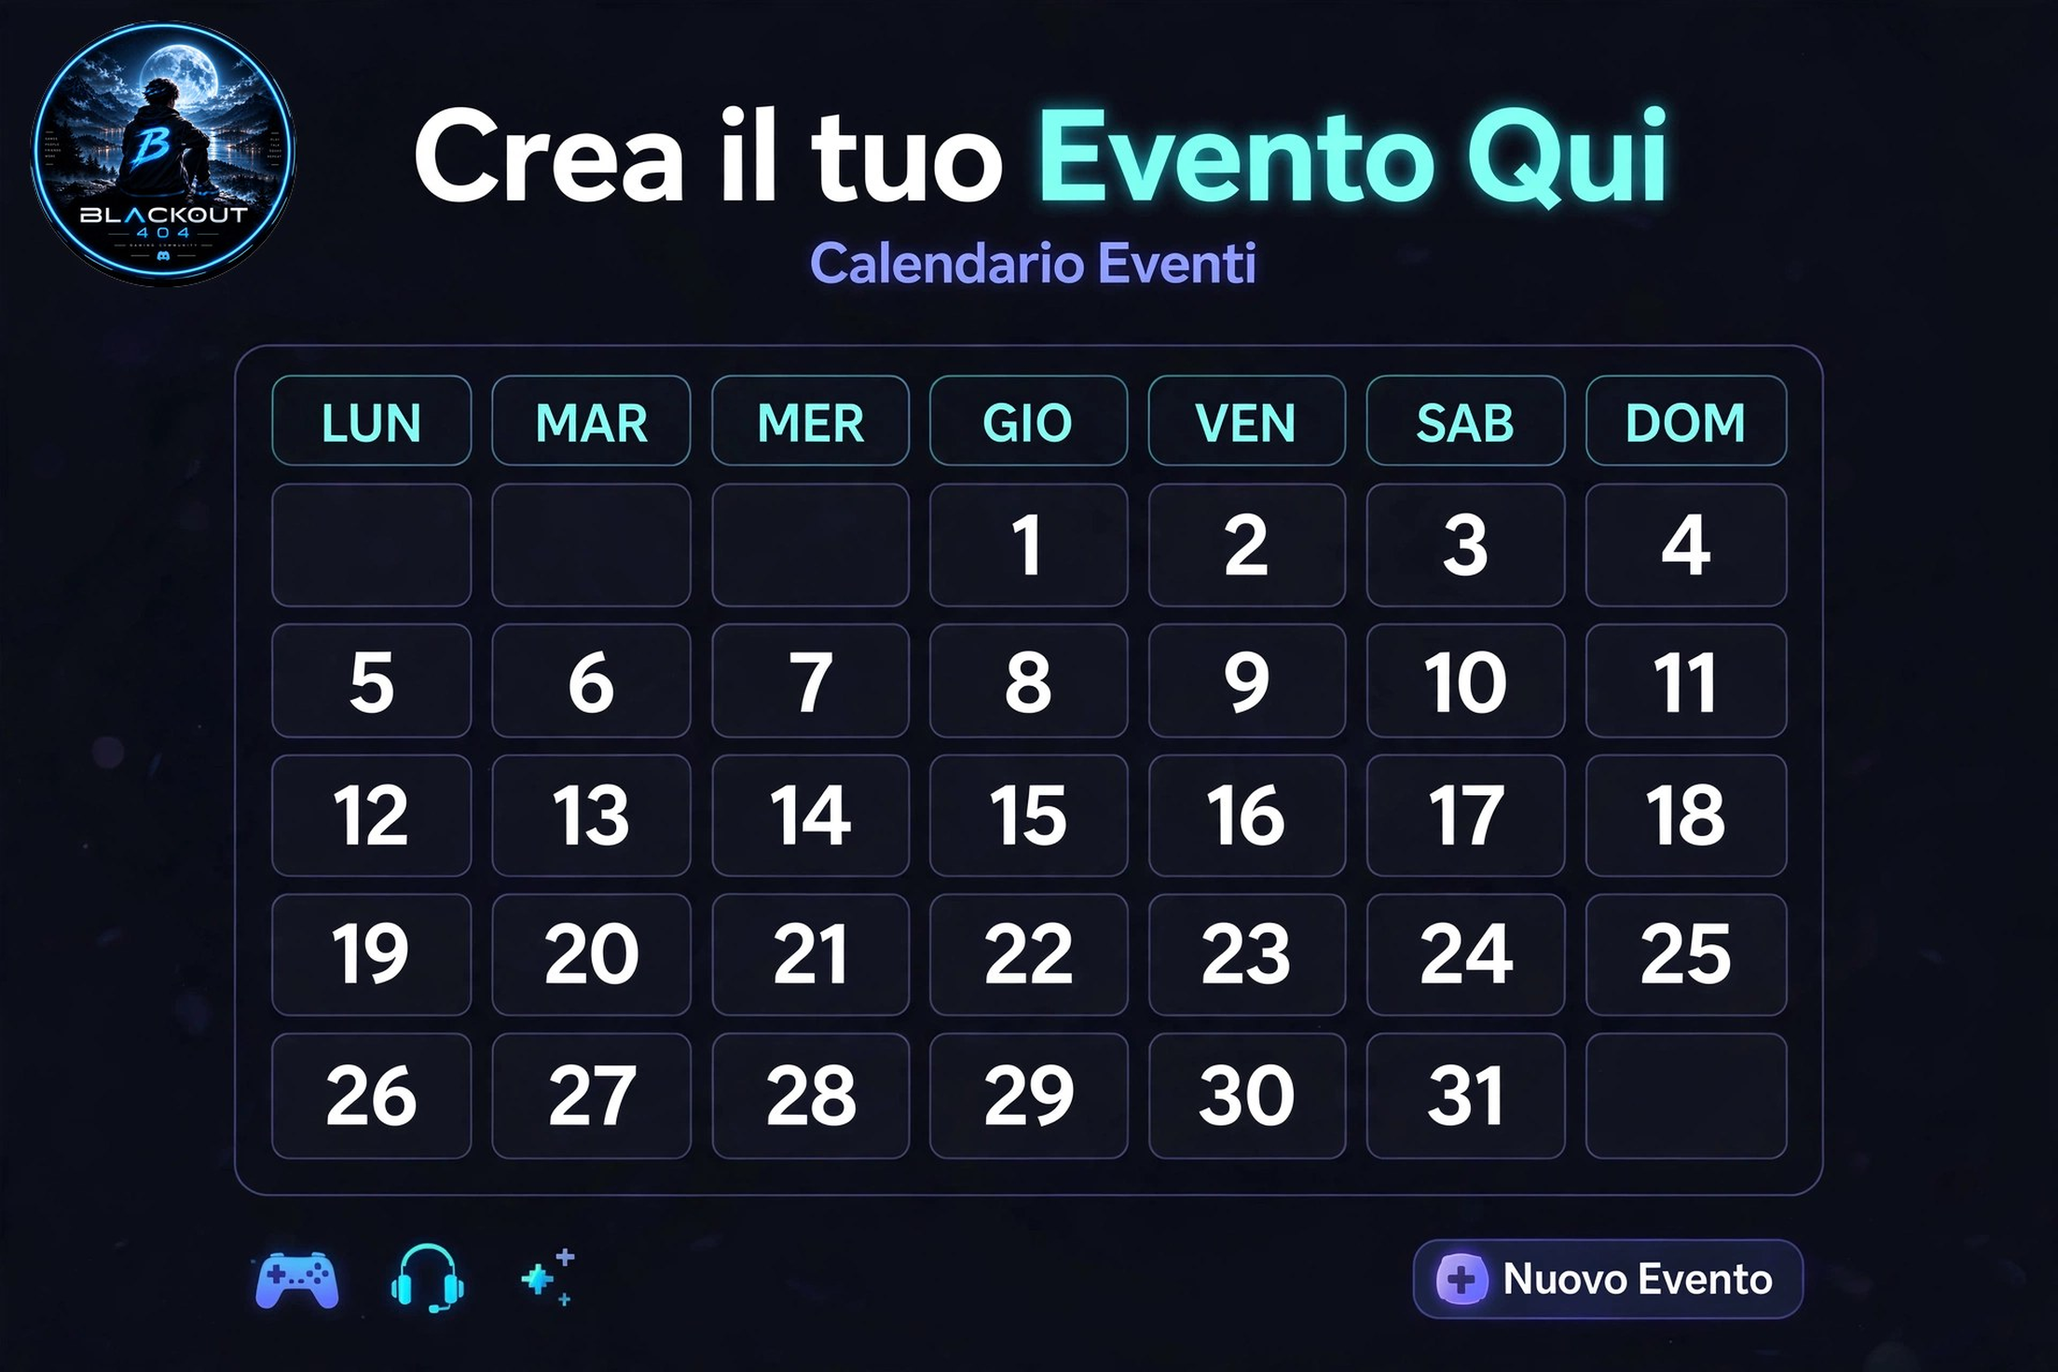
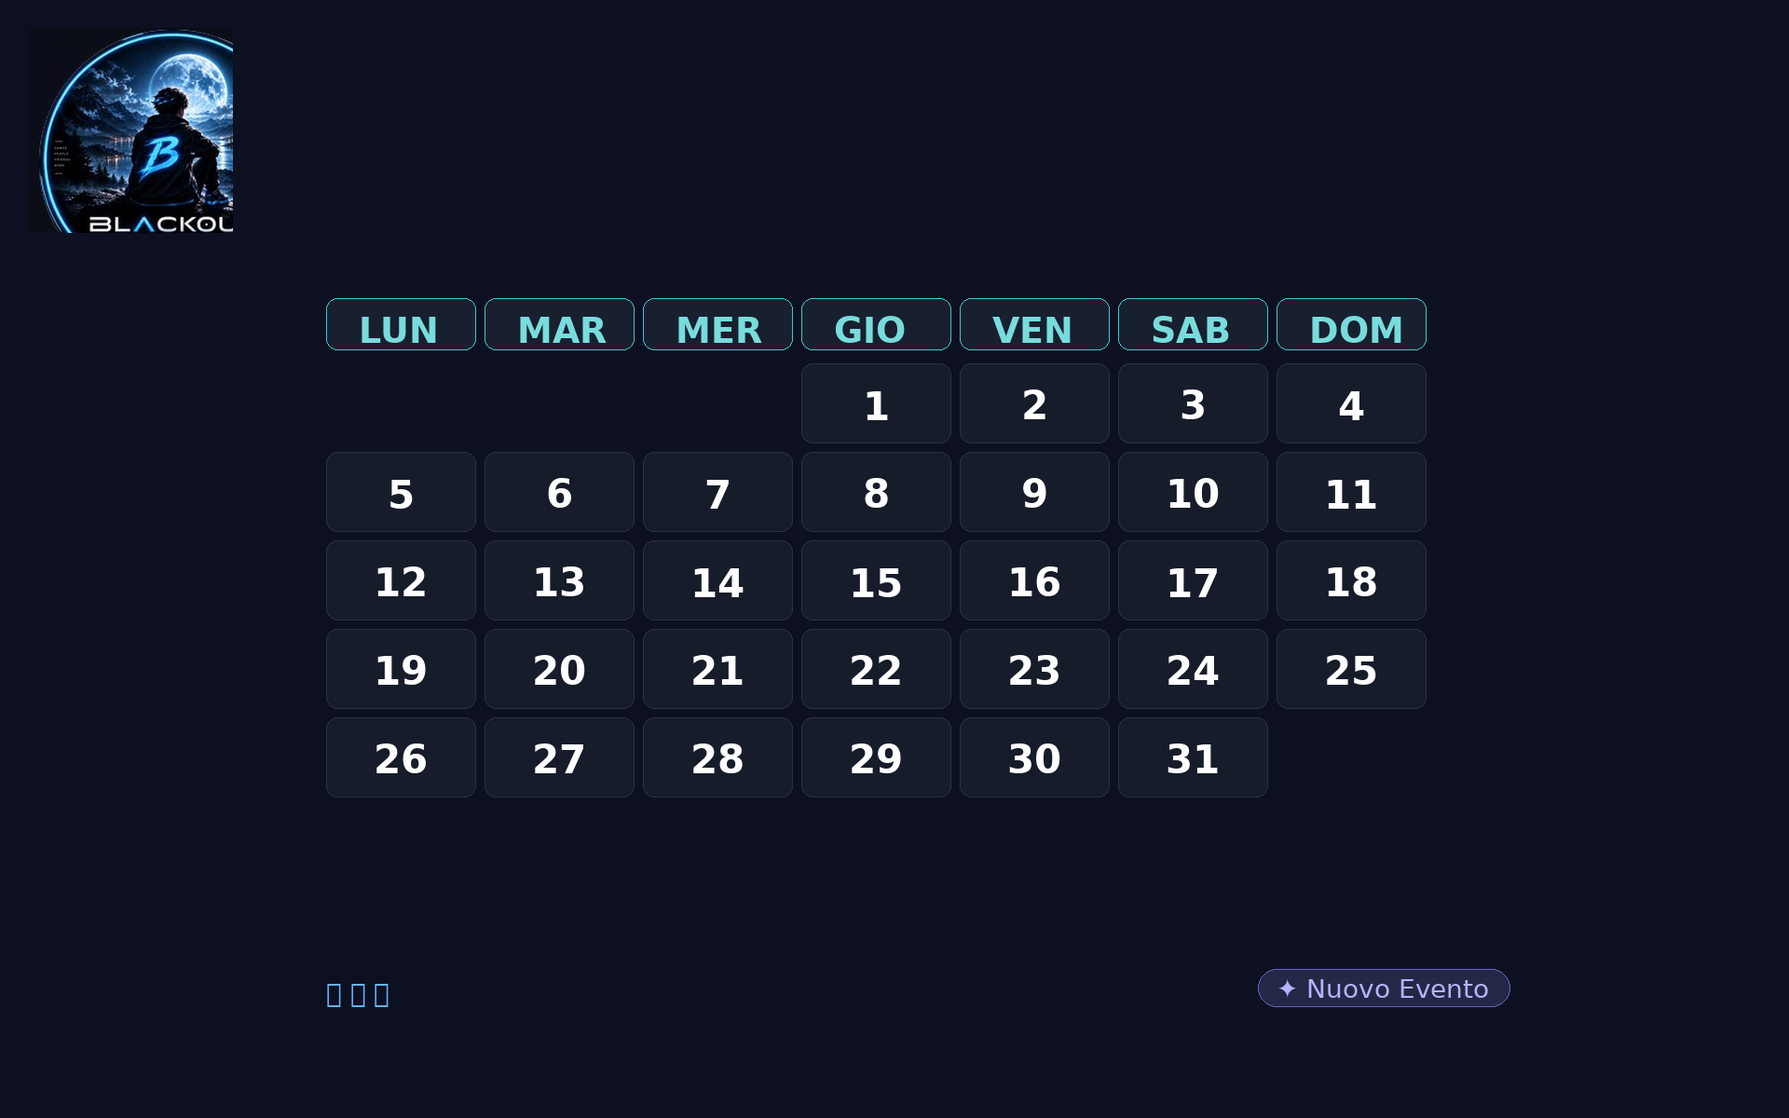
Add files via upload

diff --git a/bot.py b/bot.py
@@ -1,60 +1,347 @@
-import discord, os, threading
+import os, threading, datetime, calendar, re
+from zoneinfo import ZoneInfo
 from flask import Flask
-from googletrans import Translator
+import discord
+from discord.ext import commands
 
-TOKEN = os.getenv("DISCORD_TOKEN")
-translator = Translator()
-
-app = Flask('')
-@app.route('/')
-def home():
-    return "BLACKOUT Translator Online"
-
-threading.Thread(target=lambda: app.run(host='0.0.0.0', port=8080), daemon=True).start()
+app = Flask(__name__)
+@app.route("/")
+def home(): return "OK"
+def run_web():
+    port = int(os.environ.get("PORT", 10000))
+    app.run(host="0.0.0.0", port=port)
+threading.Thread(target=run_web, daemon=True).start()
 
 intents = discord.Intents.default()
 intents.message_content = True
-bot = discord.Client(intents=intents)
+bot = commands.Bot(command_prefix="!", intents=intents)
+
+ITALIA = ZoneInfo("Europe/Rome")
+COVER_IMAGE_PATH = "cover_C_corretta_finale.png"
+COVER_FILE_NAME = "cover_C_corretta_finale.png"
+CANALE_FISSO_ID = 1557509286911807629
+
+def get_cover_file():
+    if os.path.exists(COVER_IMAGE_PATH):
+        return discord.File(COVER_IMAGE_PATH, filename=COVER_FILE_NAME)
+    return None
+
+def get_ora_italia():
+    return datetime.datetime.now(ITALIA)
+
+class EventoPartecipaView(discord.ui.View):
+    def __init__(self, max_partecipanti: int, titolo_evento: str, data_str: str, creatore: str):
+        super().__init__(timeout=None)
+        self.max_p = max_partecipanti
+        self.titolo_evento = titolo_evento
+        self.data_str = data_str
+        self.creatore = creatore
+        self.partecipanti = []
+
+    @discord.ui.button(label="Partecipa", style=discord.ButtonStyle.green, emoji="✅", custom_id="partecipa_btn")
+    async def partecipa(self, interaction: discord.Interaction, button: discord.ui.Button):
+        user_id = interaction.user.id
+        if any(p["id"] == user_id for p in self.partecipanti):
+            await interaction.response.send_message("Hai gia cliccato Partecipa!", ephemeral=True)
+            return
+        if len(self.partecipanti) >= self.max_p:
+            await interaction.response.send_message(f"Evento pieno! Massimo {self.max_p} persone.", ephemeral=True)
+            return
+        self.partecipanti.append({"id": user_id, "name": interaction.user.display_name})
+        embed = discord.Embed(title=f"Evento del {self.data_str}", color=0x00ff88)
+        embed.add_field(name="Titolo", value=self.titolo_evento, inline=False)
+        lista_nomi = "\n".join([f"• {p['name']}" for p in self.partecipanti])
+        valore = f"{len(self.partecipanti)}/{self.max_p} persone\n{lista_nomi}" if self.partecipanti else f"0/{self.max_p} persone"
+        embed.add_field(name="Partecipanti", value=valore, inline=False)
+        embed.set_footer(text=f"Creato da {self.creatore}")
+        if len(self.partecipanti) >= self.max_p:
+            button.disabled = True
+            button.label = "Evento Pieno"
+            button.style = discord.ButtonStyle.gray
+        await interaction.response.edit_message(embed=embed, view=self)
+
+    @discord.ui.button(label="Esci", style=discord.ButtonStyle.red, emoji="❌", custom_id="esci_btn")
+    async def esci(self, interaction: discord.Interaction, button: discord.ui.Button):
+        user_id = interaction.user.id
+        trovato = next((p for p in self.partecipanti if p["id"] == user_id), None)
+        if not trovato:
+            await interaction.response.send_message("Non stai partecipando.", ephemeral=True)
+            return
+        self.partecipanti = [p for p in self.partecipanti if p["id"] != user_id]
+        embed = discord.Embed(title=f"Evento del {self.data_str}", color=0x00ff88)
+        embed.add_field(name="Titolo", value=self.titolo_evento, inline=False)
+        if self.partecipanti:
+            lista_nomi = "\n".join([f"• {p['name']}" for p in self.partecipanti])
+            valore = f"{len(self.partecipanti)}/{self.max_p} persone\n{lista_nomi}"
+        else:
+            valore = f"0/{self.max_p} persone"
+        embed.add_field(name="Partecipanti", value=valore, inline=False)
+        embed.set_footer(text=f"Creato da {self.creatore}")
+        for child in self.children:
+            if isinstance(child, discord.ui.Button) and child.custom_id == "partecipa_btn":
+                child.disabled = False
+                child.label = "Partecipa"
+                child.style = discord.ButtonStyle.green
+        await interaction.response.edit_message(embed=embed, view=self)
+
+class CreaEventoModal(discord.ui.Modal, title="Crea Evento"):
+    def __init__(self):
+        super().__init__()
+        adesso = get_ora_italia()
+        data_oggi = f"{adesso.day:02d}/{adesso.month:02d}/{adesso.year}"
+        self.data = discord.ui.TextInput(label=f"Data GG/MM/AAAA - Oggi {data_oggi}", placeholder=f"Es: {data_oggi}", default=data_oggi, max_length=10, required=True)
+        self.ora = discord.ui.TextInput(label=f"Ora HH:MM - Ora {adesso.strftime('%H:%M')}", placeholder="Es: 21:00", default=adesso.strftime('%H:%M'), max_length=5, required=True)
+        self.titolo = discord.ui.TextInput(label="Titolo evento (scrivi gioco)", placeholder="Es: ARC Raiders LIVE", max_length=100, required=True)
+        self.max_p = discord.ui.TextInput(label="Max partecipanti 1-99", placeholder="Es: 3", default="3", max_length=2, required=True)
+        self.add_item(self.data)
+        self.add_item(self.ora)
+        self.add_item(self.titolo)
+        self.add_item(self.max_p)
+
+    async def on_submit(self, interaction: discord.Interaction):
+        adesso = get_ora_italia()
+        data_str_raw = self.data.value.strip()
+        m = re.match(r"^(\d{1,2})[/\-\.](\d{1,2})[/\-\.](\d{4})$", data_str_raw)
+        if not m:
+            await interaction.response.send_message("Data non valida! Usa GG/MM/AAAA", ephemeral=True)
+            return
+        try:
+            g = int(m.group(1)); mese = int(m.group(2)); anno = int(m.group(3))
+            max_g = calendar.monthrange(anno, mese)[1]
+            if not (1 <= g <= 31 and 1 <= mese <= 12 and g <= max_g): raise ValueError()
+        except Exception as e:
+            await interaction.response.send_message(f"Data non valida: {e}", ephemeral=True)
+            return
+        ora_str = self.ora.value.strip()
+        try:
+            if ":" in ora_str:
+                h,mm = map(int, ora_str.split(":"))
+            else:
+                h = int(ora_str); mm = 0
+            if not (0 <= h <= 23 and 0 <= mm <= 59): raise ValueError()
+        except:
+            await interaction.response.send_message("Ora non valida. Usa HH:MM", ephemeral=True)
+            return
+        try:
+            max_partecipanti = int(self.max_p.value.strip())
+            if not (1 <= max_partecipanti <= 99): raise ValueError()
+        except:
+            await interaction.response.send_message("Max partecipanti non valido!", ephemeral=True)
+            return
+        data_evento = datetime.datetime(anno, mese, g, h, mm, tzinfo=ITALIA)
+        if data_evento <= adesso:
+            await interaction.response.send_message(f"Data nel passato! Ora e' {adesso.strftime('%d/%m/%Y %H:%M')}", ephemeral=True)
+            return
+
+        data_formattata = f"{g:02d}/{mese:02d}/{anno} ore {h:02d}:{mm:02d}"
+        embed = discord.Embed(title=f"Evento del {data_formattata}", color=0x00ff88)
+        embed.add_field(name="Titolo", value=self.titolo.value, inline=False)
+        embed.add_field(name="Partecipanti", value=f"0/{max_partecipanti} persone", inline=False)
+        embed.set_footer(text=f"Creato da {interaction.user.display_name}")
+        view = EventoPartecipaView(max_partecipanti=max_partecipanti, titolo_evento=self.titolo.value, data_str=data_formattata, creatore=interaction.user.display_name)
+
+        try:
+            forum = interaction.client.get_channel(CANALE_FISSO_ID)
+            if not forum:
+                forum = await interaction.client.fetch_channel(CANALE_FISSO_ID)
+
+            if isinstance(forum, discord.ForumChannel):
+                titolo_lower = self.titolo.value.lower()
+                print(f"[DEBUG TAG] Titolo ricevuto: '{self.titolo.value}' -> lower: '{titolo_lower}'")
+                print(f"[DEBUG TAG] Tag disponibili: {[t.name for t in forum.available_tags]}")
+
+                def trova_tag():
+                    tags_sorted = sorted(forum.available_tags, key=lambda t: len(t.name), reverse=True)
+                    # 1. match esatto nome tag dentro titolo
+                    for tag in tags_sorted:
+                        nome = tag.name.lower().strip()
+                        if "crea evento" in nome:
+                            continue
+                        if nome in titolo_lower:
+                            print(f"[DEBUG TAG] Match diretto: tag '{tag.name}' trovato in titolo")
+                            return tag
+                    # 2. match per parole chiave
+                    parole_titolo = titolo_lower.split()
+                    for tag in tags_sorted:
+                        nome = tag.name.lower().strip()
+                        if "crea evento" in nome:
+                            continue
+                        # se una parola del tag è nel titolo
+                        for parola in nome.split():
+                            if len(parola) >= 3 and parola in titolo_lower:
+                                print(f"[DEBUG TAG] Match parola: '{parola}' di tag '{tag.name}' in titolo")
+                                return tag
+                        # se una parola del titolo è nel nome tag
+                        for parola in parole_titolo:
+                            if len(parola) >= 3 and parola in nome:
+                                print(f"[DEBUG TAG] Match inverso: parola titolo '{parola}' in tag '{tag.name}'")
+                                return tag
+                    # 3. mapping speciale per abbreviazioni
+                    mapping_speciale = {
+                        "arc": ["arc raiders"],
+                        "raiders": ["arc raiders"],
+                        "arma": ["arma reforger", "arma"],
+                        "reforger": ["arma reforger"],
+                        "cod": ["call of duty", "cod"],
+                        "warzone": ["call of duty", "warzone"],
+                        "dbd": ["dead by daylight"],
+                        "ets2": ["euro truck", "ets2"],
+                        "farming": ["farming simulator"],
+                        "fn": ["fortnite"],
+                    }
+                    for parola in parole_titolo:
+                        if parola in mapping_speciale:
+                            for nome_tag_cercato in mapping_speciale[parola]:
+                                for tag in forum.available_tags:
+                                    if nome_tag_cercato in tag.name.lower():
+                                        print(f"[DEBUG TAG] Match mapping: parola '{parola}' -> tag '{tag.name}'")
+                                        return tag
+                    # 4. fallback Altro
+                    for tag in forum.available_tags:
+                        if "altro" in tag.name.lower():
+                            print(f"[DEBUG TAG] Fallback Altro: {tag.name}")
+                            return tag
+                    # 5. primo tag utile
+                    for tag in forum.available_tags:
+                        if "crea evento" not in tag.name.lower():
+                            print(f"[DEBUG TAG] Fallback primo utile: {tag.name}")
+                            return tag
+                    return None
+
+                tag_scelto = trova_tag()
+                applied = [tag_scelto] if tag_scelto else []
+                
+                # IMPORTANTE: niente cover per gli eventi, solo embed + bottoni
+                await forum.create_thread(
+                    name=f"{self.titolo.value} - {data_formattata}",
+                    content=f"**{self.titolo.value}**\n📅 {data_formattata} - Creato da {interaction.user.mention}",
+                    embed=embed,
+                    view=view,
+                    applied_tags=applied
+                )
+                tag_nome = tag_scelto.name if tag_scelto else "Altro"
+                await interaction.response.send_message(f"✅ Evento creato in <#{CANALE_FISSO_ID}> con tag **{tag_nome}**!\n📅 {data_formattata}\n**Senza cover** come richiesto", ephemeral=True)
+            else:
+                await interaction.response.send_message(f"✅ Evento creato per {data_formattata}", ephemeral=True)
+                await interaction.channel.send(embed=embed, view=view)
+        except Exception as e:
+            import traceback; traceback.print_exc()
+            print(f"[ERRORE EVENTO] {e}")
+            await interaction.response.send_message(f"Errore creazione: {e}", ephemeral=True)
+
+class CreaEventoButton(discord.ui.Button):
+    def __init__(self):
+        super().__init__(label="Crea Evento", style=discord.ButtonStyle.green, emoji="📅", custom_id="crea_evento_persist")
+    async def callback(self, interaction: discord.Interaction):
+        await interaction.response.send_modal(CreaEventoModal())
+
+class SoloBottoneView(discord.ui.View):
+    def __init__(self):
+        super().__init__(timeout=None)
+        self.add_item(CreaEventoButton())
+    def get_embed(self):
+        embed = discord.Embed(title="Crea il tuo Evento Qui - Calendario Eventi", description="Clicca **Crea Evento** qui sotto per creare un evento nel tag giusto", color=0x2b2d31)
+        return embed
+
+async def invia_post_fisso_calendario():
+    await bot.wait_until_ready()
+    try:
+        canale = bot.get_channel(CANALE_FISSO_ID)
+        if not canale:
+            canale = await bot.fetch_channel(CANALE_FISSO_ID)
+        if not canale:
+            return
+        if isinstance(canale, discord.ForumChannel):
+            for thread in canale.threads:
+                if "Crea il tuo Evento Qui" in thread.name and thread.owner_id == bot.user.id:
+                    print("Guida già presente, skip")
+                    return
+        else:
+            async for msg in canale.history(limit=30):
+                if msg.author == bot.user and msg.embeds and any("Crea il tuo Evento Qui" in (e.title or "") for e in msg.embeds):
+                    print("Guida già presente")
+                    return
+        view = SoloBottoneView()
+        embed = view.get_embed()
+        file_cover = get_cover_file()
+        if file_cover:
+            embed.set_image(url=f"attachment://{COVER_FILE_NAME}")
+        if isinstance(canale, discord.ForumChannel):
+            tag_crea = None
+            for t in canale.available_tags:
+                if "Crea Evento" in t.name:
+                    tag_crea = t
+                    break
+            tags = [tag_crea] if tag_crea else []
+            await canale.create_thread(name="Crea il tuo Evento Qui", content="**Crea il tuo Evento Qui - Calendario Eventi**", embed=embed, view=view, applied_tags=tags, file=file_cover)
+        else:
+            await canale.send(embed=embed, view=view, file=file_cover)
+    except Exception as e:
+        print(f"Errore guida: {e}")
+        import traceback; traceback.print_exc()
 
 @bot.event
 async def on_ready():
-    print(f"Bot online come {bot.user}")
-
-@bot.event
-async def on_message(message):
-    if message.author.bot:
-        return
-    if not message.embeds and not message.content:
-        return
-
-    embed_orig = message.embeds[0] if message.embeds else None
-    testo_originale = ""
-    if embed_orig:
-        if embed_orig.title:
-            testo_originale += embed_orig.title + "\n\n"
-        if embed_orig.description:
-            testo_originale += embed_orig.description
-    if not testo_originale:
-        testo_originale = message.content
-    if not testo_originale.strip():
-        return
-
+    print(f"Online come {bot.user}")
+    # Registra view persistenti così i bottoni non vanno in timeout dopo restart
+    bot.add_view(SoloBottoneView())
+    bot.add_view(EventoPartecipaView(max_partecipanti=99, titolo_evento="dummy", data_str="dummy", creatore="dummy"))
     try:
-        tradotto = await translator.translate(testo_originale, dest="it")
-        nuovo_embed = discord.Embed(
-            title=tradotto.text.split("\n\n")[0][:256],
-            description=tradotto.text,
-            color=0x00D9FF
-        )
-        nuovo_embed.set_author(name=f"Rockstar Games #{message.channel.name}")
-        nuovo_embed.set_footer(text=f"Translated from #{message.channel.name} by BLACKOUT Translator")
-        embeds_finali = [nuovo_embed]
-        if embed_orig and embed_orig.image:
-            img_embed = discord.Embed(color=0x00D9FF)
-            img_embed.set_image(url=embed_orig.image.url)
-            embeds_finali.append(img_embed)
-        await message.channel.send(embeds=embeds_finali)
+        await bot.tree.sync()
+        print("Sync OK - view persistenti registrate")
     except Exception as e:
-        print(f"Errore: {e}")
+        print(e)
+    for guild in bot.guilds:
+        try:
+            if guild.me.display_name != "Calendario":
+                await guild.me.edit(nick="Calendario")
+        except:
+            pass
+    bot.loop.create_task(invia_post_fisso_calendario())
 
-bot.run(TOKEN)
+@bot.tree.command(name="calendario", description="Mostra calendario + crea evento")
+async def calendario(interaction: discord.Interaction):
+    view = SoloBottoneView()
+    embed = view.get_embed()
+    file_cover = get_cover_file()
+    if file_cover:
+        embed.set_image(url=f"attachment://{file_cover.filename}")
+    await interaction.response.send_message("✅ Calendario inviato!", ephemeral=True)
+    await interaction.channel.send(embed=embed, view=view, file=file_cover)
+
+@bot.tree.command(name="setup_calendario", description="Pubblica il post fisso")
+async def setup_calendario(interaction: discord.Interaction):
+    try:
+        canale = bot.get_channel(CANALE_FISSO_ID)
+        if not canale:
+            canale = await bot.fetch_channel(CANALE_FISSO_ID)
+        view = SoloBottoneView()
+        embed = view.get_embed()
+        file_cover = get_cover_file()
+        if file_cover:
+            embed.set_image(url=f"attachment://{file_cover.filename}")
+        if isinstance(canale, discord.ForumChannel):
+            tag_crea = None
+            for t in canale.available_tags:
+                if "Crea Evento" in t.name:
+                    tag_crea = t
+                    break
+            tags = [tag_crea] if tag_crea else []
+            await canale.create_thread(name="Crea il tuo Evento Qui", content="**Crea il tuo Evento Qui - Calendario Eventi**", embed=embed, view=view, applied_tags=tags, file=file_cover)
+        else:
+            await canale.send(embed=embed, view=view, file=file_cover)
+        await interaction.response.send_message(f"✅ Post guida pubblicato in <#{CANALE_FISSO_ID}>", ephemeral=True)
+    except Exception as e:
+        import traceback; traceback.print_exc()
+        await interaction.response.send_message(f"Errore: {e}", ephemeral=True)
+
+@bot.command(name="calendario")
+async def calendario_prefix(ctx):
+    view = SoloBottoneView()
+    embed = view.get_embed()
+    file_cover = get_cover_file()
+    if file_cover:
+        embed.set_image(url=f"attachment://{file_cover.filename}")
+    await ctx.send(embed=embed, view=view, file=file_cover)
+
+bot.run(os.getenv("DISCORD_TOKEN"))
